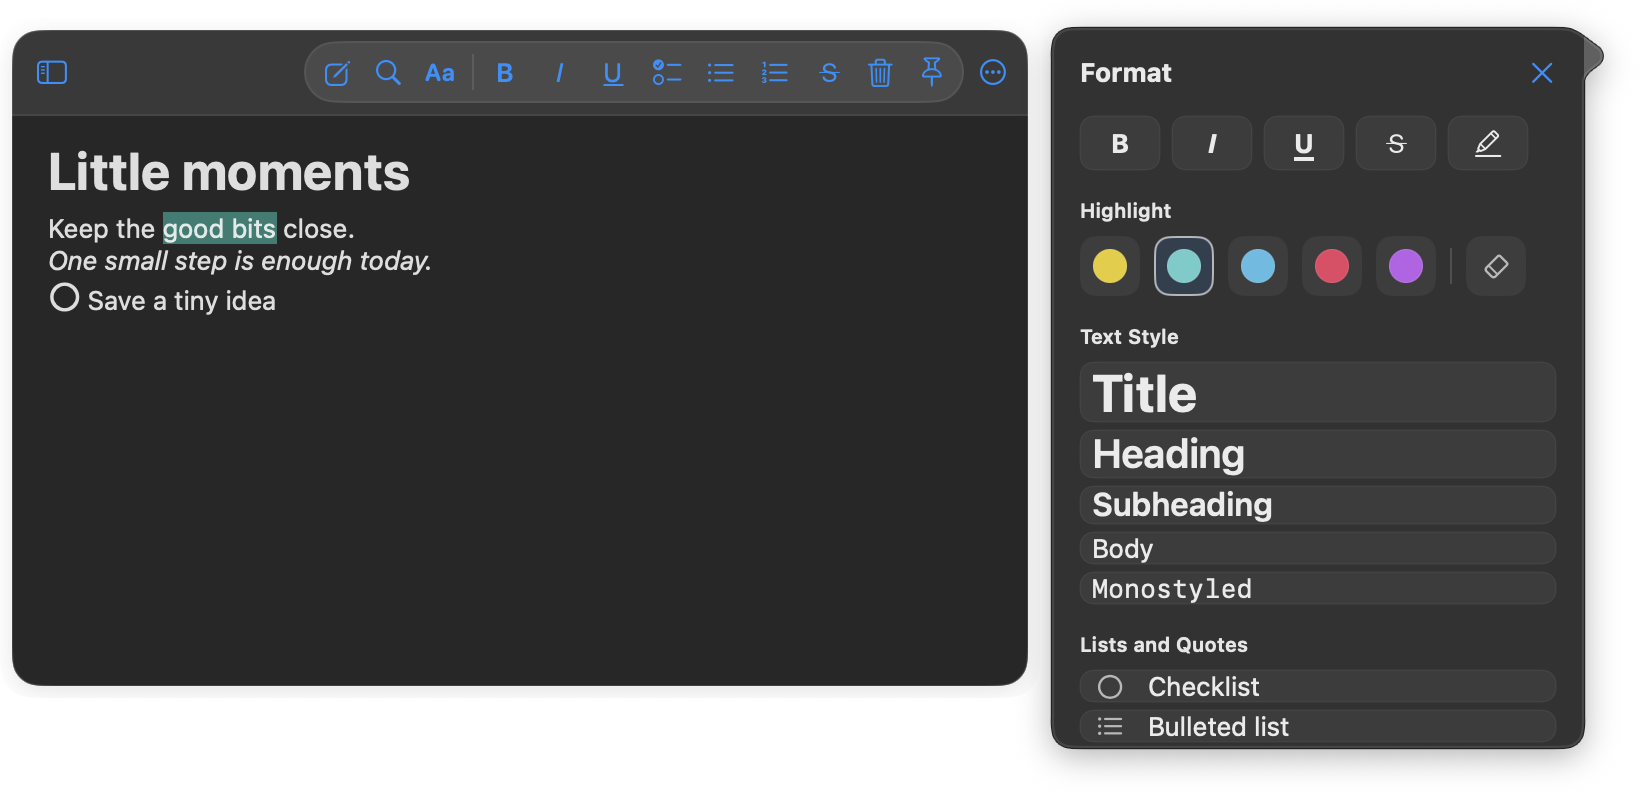
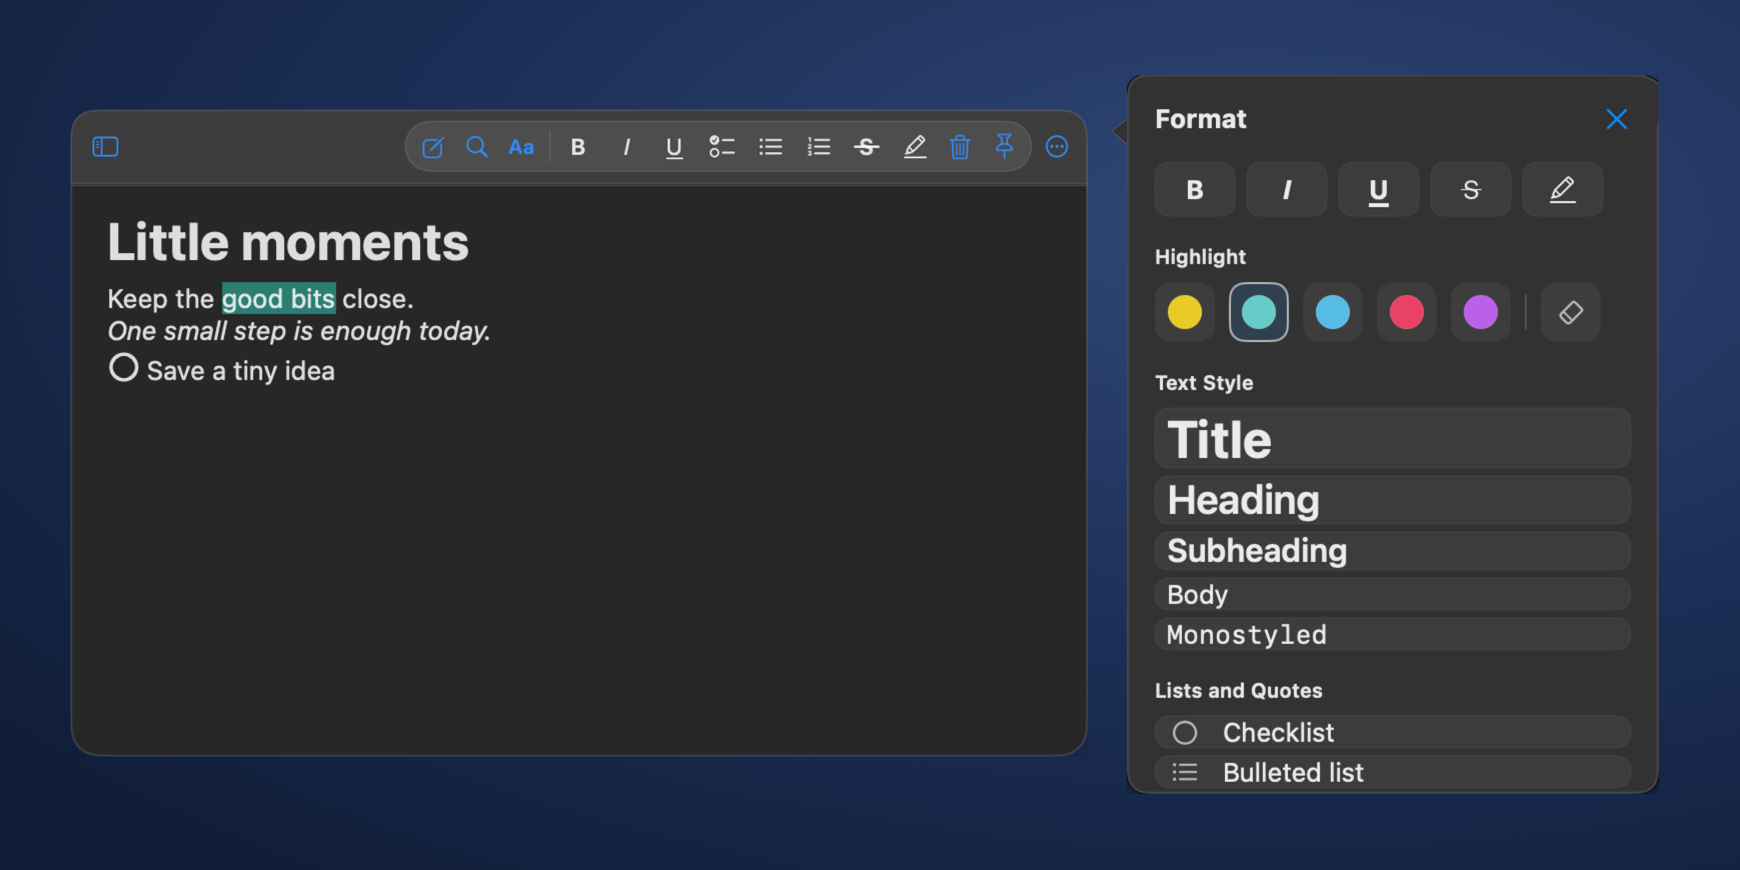
Refresh documentation previews and correct format popover anchoring

diff --git a/Sources/QuickNotes/Views/QuickNoteView.swift b/Sources/QuickNotes/Views/QuickNoteView.swift
@@ -674,11 +674,6 @@ private struct PersistentFormattingPopover: NSViewRepresentable {
                 of: contentView,
                 preferredEdge: openRight ? .maxX : .minX
             )
-            coordinator.observe(window: window)
-            DispatchQueue.main.async { [weak coordinator, weak window] in
-                guard let coordinator, let window else { return }
-                coordinator.positionPopover(nextTo: window)
-            }
         }
     }
 
@@ -686,67 +681,15 @@ private struct PersistentFormattingPopover: NSViewRepresentable {
         var isPresented: Binding<Bool>
         weak var controller: RichTextEditorController?
         var popover: NSPopover?
-        private weak var sourceWindow: NSWindow?
-        private var windowObservers: [NSObjectProtocol] = []
 
         init(isPresented: Binding<Bool>, controller: RichTextEditorController) {
             self.isPresented = isPresented
             self.controller = controller
         }
 
-        func observe(window: NSWindow) {
-            sourceWindow = window
-            for observer in windowObservers { NotificationCenter.default.removeObserver(observer) }
-            windowObservers = [NSWindow.didMoveNotification, NSWindow.didResizeNotification].map { name in
-                NotificationCenter.default.addObserver(
-                    forName: name,
-                    object: window,
-                    queue: .main
-                ) { [weak self, weak window] _ in
-                    guard let window else { return }
-                    self?.positionPopover(nextTo: window)
-                }
-            }
-        }
-
-        func positionPopover(nextTo window: NSWindow) {
-            guard let contentView = popover?.contentViewController?.view,
-                  let popoverWindow = contentView.window else { return }
-            contentView.layoutSubtreeIfNeeded()
-            let contentFrame = popoverWindow.convertToScreen(
-                contentView.convert(contentView.bounds, to: nil)
-            )
-            guard contentFrame.width > 0, contentFrame.height > 0 else { return }
-            let screen = window.screen?.visibleFrame ?? NSScreen.main?.visibleFrame ?? window.frame
-            let target = FormattingPalettePlacement.origin(
-                nextTo: window.frame,
-                paletteSize: contentFrame.size,
-                in: screen
-            )
-            popoverWindow.setFrameOrigin(NSPoint(
-                x: popoverWindow.frame.minX + target.x - contentFrame.minX,
-                y: popoverWindow.frame.minY + target.y - contentFrame.minY
-            ))
-        }
-
-        func popoverDidShow(_ notification: Notification) {
-            guard let sourceWindow else { return }
-            DispatchQueue.main.async { [weak self, weak sourceWindow] in
-                guard let sourceWindow else { return }
-                self?.positionPopover(nextTo: sourceWindow)
-            }
-        }
-
         func popoverDidClose(_ notification: Notification) {
             controller?.setSelectionPreviewMode(false)
-            for observer in windowObservers { NotificationCenter.default.removeObserver(observer) }
-            windowObservers.removeAll()
-            sourceWindow = nil
             if isPresented.wrappedValue { isPresented.wrappedValue = false }
-        }
-
-        deinit {
-            for observer in windowObservers { NotificationCenter.default.removeObserver(observer) }
         }
     }
 }

diff --git a/README.md b/README.md
@@ -28,18 +28,7 @@ Quick Notes keeps a note close while you work. Open the floating window from the
 
 ### Open, then tucked away
 
-<table>
-  <tr>
-    <th>Open</th>
-    <th aria-label="becomes">→</th>
-    <th>Folded on your desktop</th>
-  </tr>
-  <tr>
-    <td align="center" valign="middle"><img src="docs/screenshots/compact.png" alt="The Ideas note open at its compact window size" width="280"></td>
-    <td align="center" valign="middle">→</td>
-    <td align="center" valign="middle"><img src="docs/screenshots/compact-desktop.jpg" alt="The same Ideas note folded into a small bar on a clean blue desktop" width="520"></td>
-  </tr>
-</table>
+<img src="docs/screenshots/ideas-open-folded.png" alt="The real Ideas note open at compact size, then folded into a much smaller floating bar" width="760">
 
 *Double-click the header to fold Ideas into a floating bar. Double-click the bar to bring the same note back.*
 
